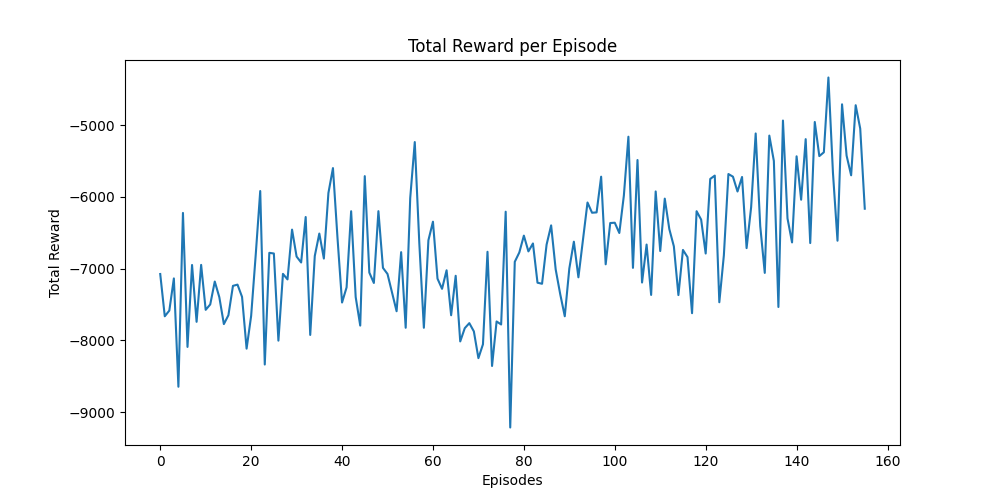
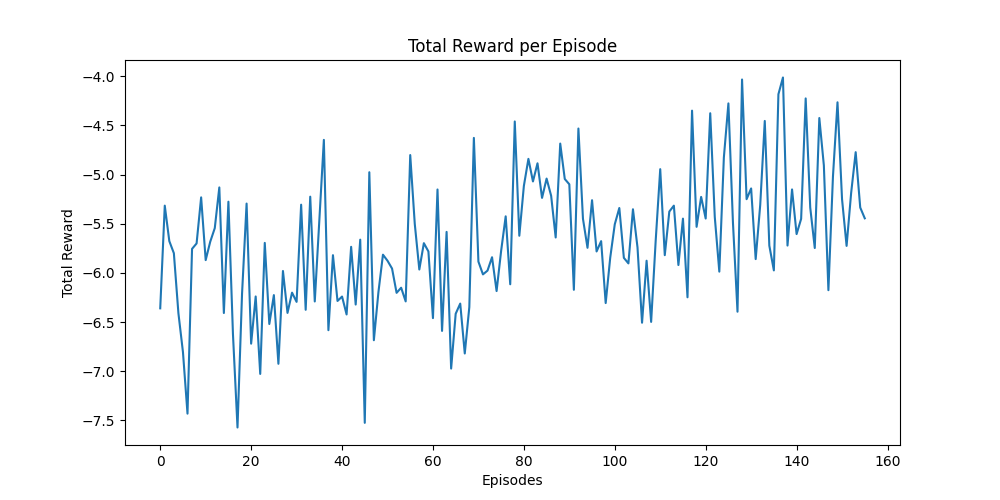
update reward irrigation

diff --git a/aquacroprice/envs/rice.py b/aquacroprice/envs/rice.py
@@ -181,7 +181,7 @@ class Rice(gym.Env):
             dry_yield = self.model._outputs.final_stats['Dry yield (tonne/ha)'].mean()
             total_irrigation = self.model._outputs.final_stats['Seasonal irrigation (mm)'].mean()
 
-            reward = (dry_yield * 150) - (total_irrigation * 5)
+            reward = ((dry_yield * 200) - (total_irrigation * 5)) / 10
 
             # Logging to help debug and understand the reward structure
             print(f"Dry Yield: {dry_yield}")
